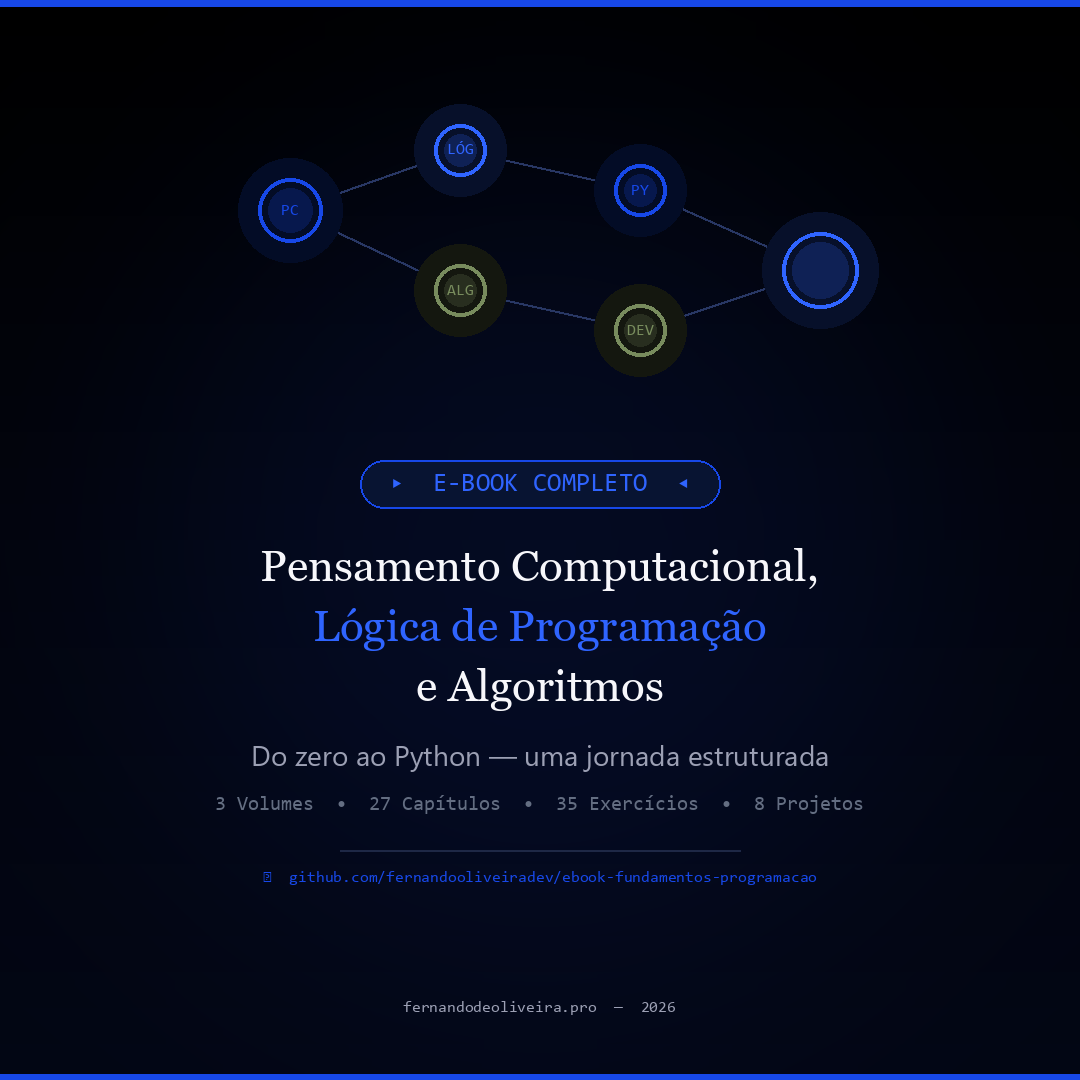
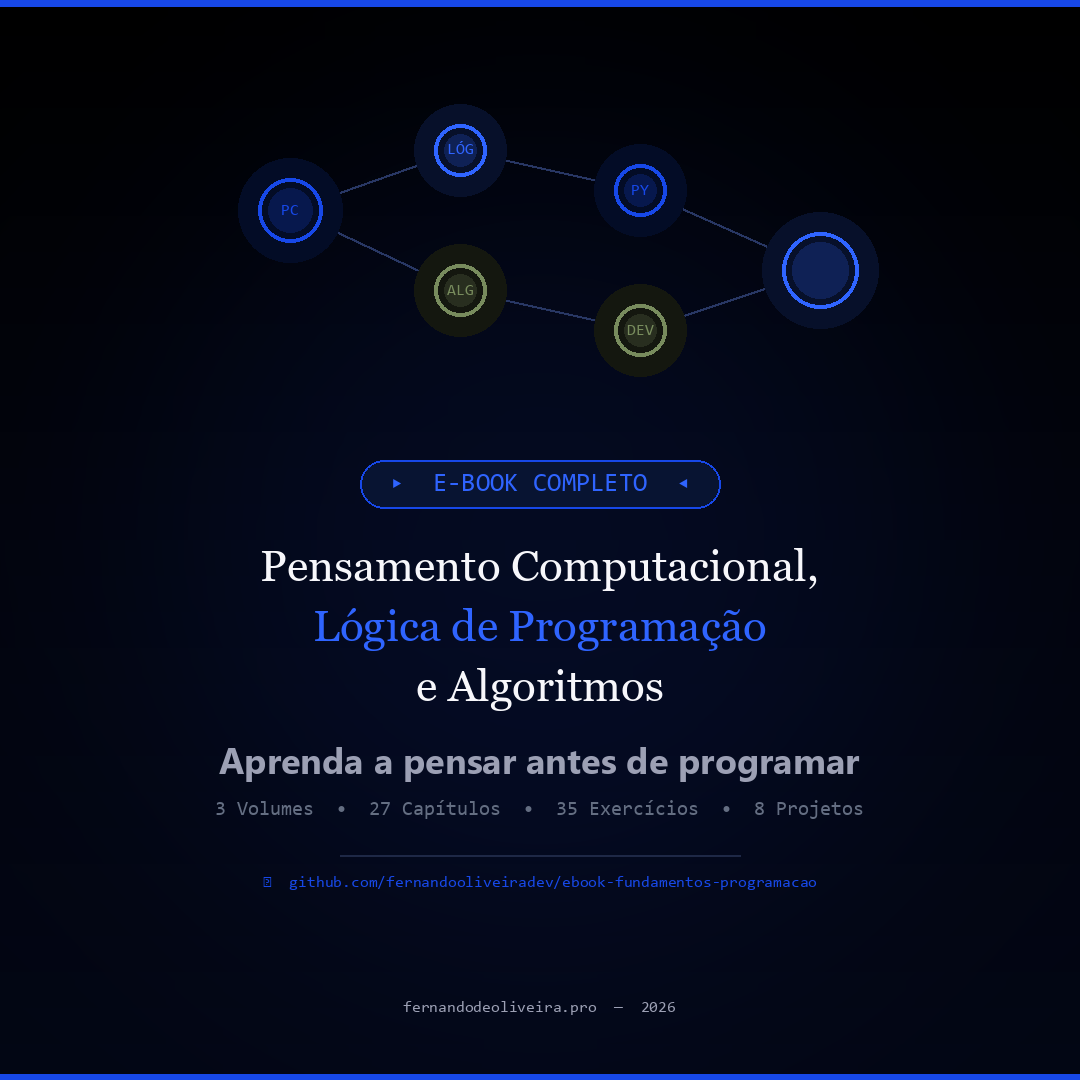
🔄 Subtítulo: 'Aprenda a pensar antes de programar'

Changed region(s): [[0.1833, 0.6722, 0.7944, 0.825]]

diff --git a/index.html b/index.html
@@ -27,7 +27,7 @@
 </svg>
 <span class="eyebrow-light">E-book Completo</span>
 <h1>Pensamento Computacional, Lógica de Programação e Algoritmos</h1>
-<p class="subtitle">Do zero ao Python — uma jornada estruturada</p>
+<p class="subtitle">Aprenda a pensar antes de programar</p>
 <p class="author">Por <a href="https://fernandodeoliveira.pro">fernandodeoliveira.pro</a> — 2026</p>
 </div>
 